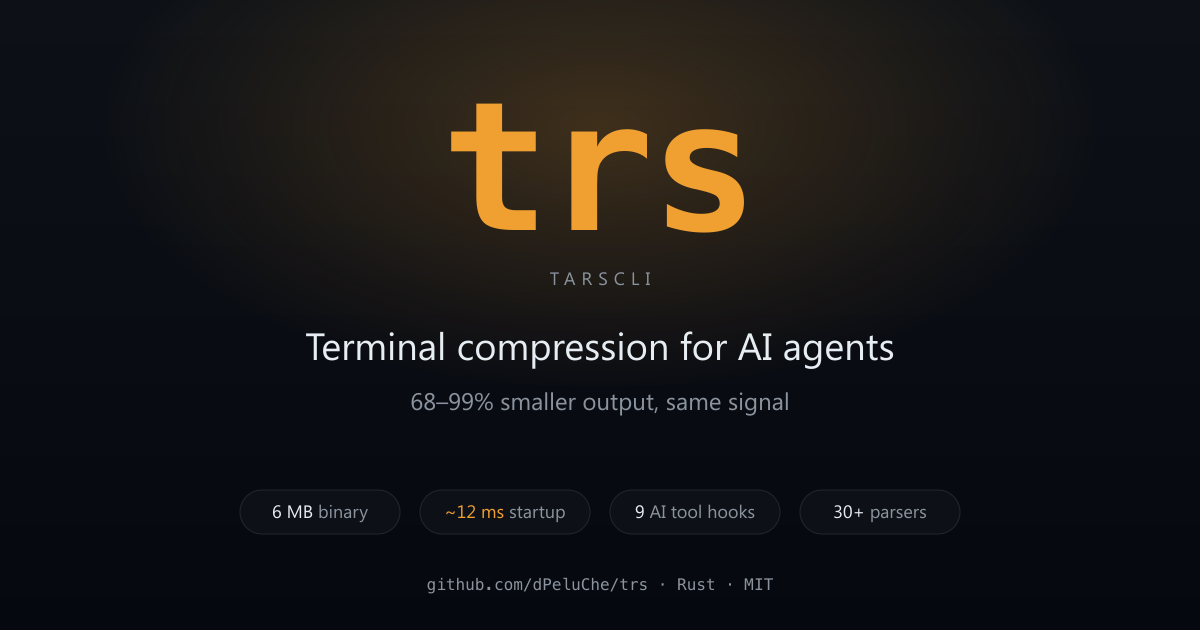
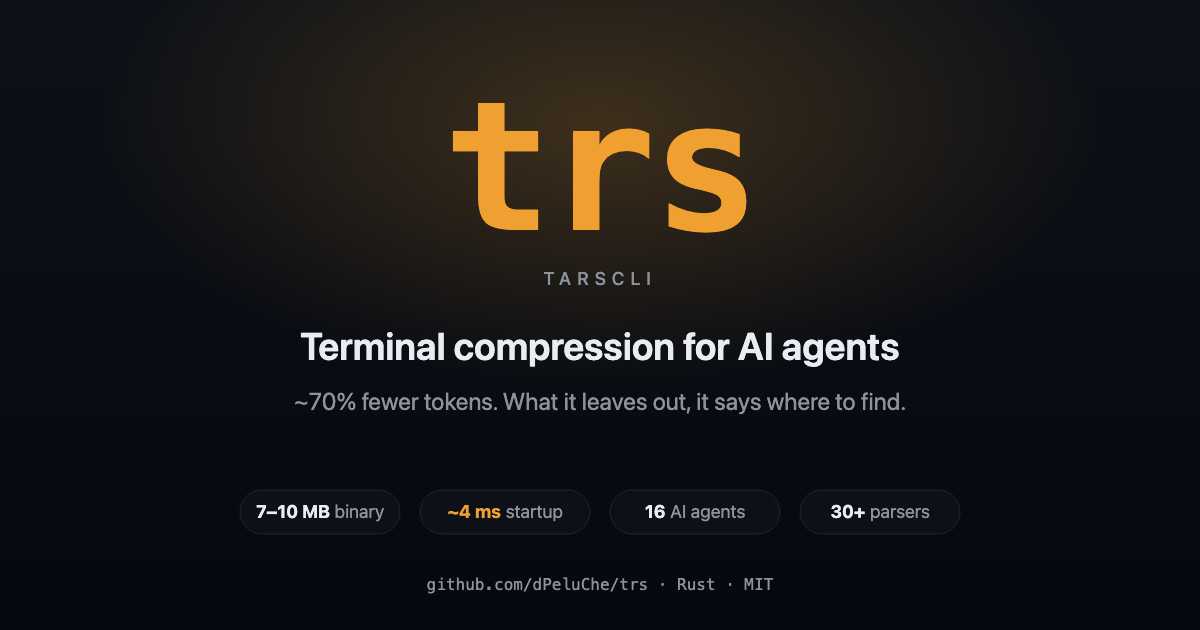
docs: replace the "68-99%" claim and the stale size and speed numbers (#187)
"68-99% reduction" contradicted the ~70% figure the README and site use,
and the per-command examples in `trs --help` (git status 80%) were not
what the benchmark measures (47%). The plugin and template text that
`trs init` writes into agents' config also said "no signal loss" and
"~30-40% free" for the generic path, which saves 2-16%.

- one phrase everywhere: ~70% fewer tokens on real agent commands, and
  what trs leaves out it says where to find
- binary size: published 0.8.6 binaries are 6.9 MB (macOS), 8.8 MB (Linux),
  10 MB (Windows), not 6 MB
- startup: the hook takes ~4 ms (median of 30), not ~12 ms
- og-image: 16 agents (`trs init --show` lists 16), regenerated PNG

Claude-Session: https://claude.ai/code/session_01GkgHj56hmkHb2a1syzJwA7

diff --git a/docs/index.html b/docs/index.html
@@ -20,7 +20,7 @@
   <meta property="og:type" content="website">
   <meta property="og:site_name" content="trs (Token-Reducing Shell)">
   <meta property="og:title" content="trs: Terminal compression for AI agents">
-  <meta property="og:description" content="Rust CLI that cuts ~70% of the tokens AI agents spend on terminal output. Single 6 MB binary, ~4 ms startup, zero Node overhead. Hooks for Claude Code, Gemini, Cursor, OpenCode, Kilo, Pi, Droid, Codex, VS Code Copilot, Copilot CLI, Devin CLI, OpenClaw, Hermes, Zed, Devin Desktop (ex-Windsurf), Antigravity (IDE + CLI / agy).">
+  <meta property="og:description" content="Rust CLI that cuts ~70% of the tokens AI agents spend on terminal output. Single 7-10 MB binary, ~4 ms startup, zero Node overhead. Hooks for Claude Code, Gemini, Cursor, OpenCode, Kilo, Pi, Droid, Codex, VS Code Copilot, Copilot CLI, Devin CLI, OpenClaw, Hermes, Zed, Devin Desktop (ex-Windsurf), Antigravity (IDE + CLI / agy).">
   <meta property="og:url" content="https://usetrs.dev/">
   <meta property="og:image" content="https://usetrs.dev/og-image.png">
   <meta property="og:image:alt" content="trs: Terminal compression for AI agents">
@@ -34,7 +34,7 @@
   <meta name="twitter:site" content="@dPeluChe">
   <meta name="twitter:creator" content="@dPeluChe">
   <meta name="twitter:title" content="trs: Terminal compression for AI agents">
-  <meta name="twitter:description" content="Rust CLI that cuts ~70% of the tokens AI agents spend on terminal output. Single 6 MB binary, ~4 ms startup.">
+  <meta name="twitter:description" content="Rust CLI that cuts ~70% of the tokens AI agents spend on terminal output. Single 7-10 MB binary, ~4 ms startup.">
   <meta name="twitter:image" content="https://usetrs.dev/og-image.png">
   <meta name="twitter:image:alt" content="trs: Terminal compression for AI agents">
 
@@ -718,7 +718,7 @@
     <a class="hero-secondary-link" href="#digest">&#x25CF; Also built-in: trs ingest &mdash; LLM-ready project digest &rarr;</a>
 
     <div class="hero-stats">
-      <span class="hero-stat"><strong>6 MB</strong> single binary</span>
+      <span class="hero-stat"><strong>7-10 MB</strong> single binary</span>
       <span class="hero-stat"><span class="accent">~4 ms</span> startup</span>
       <span class="hero-stat"><strong>9</strong> AI tool hooks</span>
       <span class="hero-stat"><strong>30+</strong> parsers</span>

diff --git a/src/init_templates.rs b/src/init_templates.rs
@@ -226,9 +226,10 @@ trs cargo clippy
 ```
 
 (Prefixing is always safe: trs never double-wraps a command that already
-starts with `trs`.) This reduces token consumption by 68-99% without losing
-signal. Commands without a dedicated parser still get ANSI stripping and
-whitespace collapse (~30-40% reduction "free").
+starts with `trs`.) This cuts the tokens spent on command output (about 70% on
+real agent commands). When trs leaves something out it says so and where the
+rest is. Commands without a dedicated parser still get ANSI stripping and
+whitespace collapse (a small cut, nothing dropped).
 
 The output-saver reply-brevity rules are installed separately as their own
 sentinel-managed block (run `trs output-saver --install`, which `trs init
@@ -277,8 +278,9 @@ trs cargo test
 trs cargo clippy
 ```
 
-68-99% token reduction with no signal loss. Commands without a dedicated
-parser still get ANSI stripping + whitespace collapse (~30-40% "free").
+About 70% fewer tokens on real agent commands; when trs leaves something out
+it says so and where the rest is. Commands without a dedicated parser still
+get ANSI stripping + whitespace collapse (a small cut, nothing dropped).
 
 See `docs/development/antigravity-hooks-research.md` in the trs repo
 for the investigation that led to this rules-only integration.

diff --git a/src/help.rs b/src/help.rs
@@ -7,14 +7,16 @@
 pub const LONG_ABOUT: &str = "\
 trs (Token-Reducing Shell) - Transform noisy terminal output into compact, structured signal
 
-Reduces token consumption by 68-99% for developers, AI agents, and automation.
+Cuts the tokens AI agents and automation spend on terminal output (about 70%
+on real agent commands; measured per command in docs/development/benchmarks).
+When it leaves something out it says so, and where the rest is.
 Just prefix any command with trs:
 
-    trs git status               # 80% reduction
-    trs git log -10              # 90% reduction
-    trs ls -la                   # 82% reduction
-    trs npm test                 # 90% reduction
-    trs env                      # 68% reduction
+    trs git status
+    trs git log -10
+    trs ls -la
+    trs npm test
+    trs env
 
 FORMAT FLAGS (work before or after the command):
     --json     Structured JSON output

diff --git a/docs/development/codebase-digest.md b/docs/development/codebase-digest.md
@@ -1,6 +1,6 @@
 # labs-tarscli (274 files, 42.2k tokens, rust)
 
-> Token-reducing shell for AI agents: compact terminal output at 68-99% reduction
+> Token-reducing shell for AI agents: compact terminal output, ~70% fewer tokens on real agent commands
 
 ## Structure
 
@@ -225,7 +225,7 @@ src/main.rs (3):
 ## What is trs
 
 A Rust CLI that transforms noisy terminal output into compact, structured signal.
-Reduces token consumption by 68-99% for developers, AI agents, and automation pipelines.
+Cuts the tokens AI agents and automation pipelines spend on terminal output (~70% on real agent commands).
 
 ## Pre-generated codebase digest
 
@@ -426,7 +426,7 @@ git config core.hooksPath .githooks
 name = "trs-cli"
 version = "0.7.5"
 edition = "2021"
-description = "Token-reducing shell for AI agents: compact terminal output at 68-99% reduction"
+description = "Token-reducing shell for AI agents: compact terminal output, ~70% fewer tokens on real agent commands"
 license = "MIT"
 repository = "https://github.com/dPeluChe/trs"
 homepage = "https://usetrs.dev"
@@ -1247,7 +1247,7 @@ install scope.
 Every command supported by trs falls into one of four levels.
 
 1. Dedicated parser. trs spawns the tool, parses its native output,
-   and emits a structured compact form. Typical reduction 68–99%.
+   and emits a structured compact form. Typical reduction depends on the command (see docs/development/benchmarks).
 2. Dispatched alias. A different binary with the same semantics
    (e.g. `rg` for `grep`, `eza` for `ls`) gets routed to the same
    parser. No configuration, the dispatcher recognizes the binary
@@ -1268,7 +1268,7 @@ Every command supported by trs falls into one of four levels.
 # Installing trs
 
 Five install channels. All of them ship the same native binary
-(~6 MB, zero runtime deps, ~12 ms startup). Pick whichever fits your
+(~7-10 MB, zero runtime deps, ~4 ms startup). Pick whichever fits your
 existing toolchain.
 
 ## Quick list
@@ -1397,7 +1397,7 @@ Do NOT do the switch before v0.5.10 ships — the hook would pin to the older in
 Transform noisy terminal output into compact, structured signal.
 A CLI toolkit for developers, automation pipelines, and AI agents.
 
-68-99% token savings on common dev operations.
+~70% fewer tokens on real agent commands.
 
 ## Install
 

diff --git a/npm/README.md b/npm/README.md
@@ -3,7 +3,7 @@
 Transform noisy terminal output into compact, structured signal.
 A CLI toolkit for developers, automation pipelines, and AI agents.
 
-**68-99% token savings** on common dev operations.
+**~70% fewer tokens on real agent commands.** What it leaves out, it says where to find.
 
 ## Install
 

diff --git a/docs/support/install.md b/docs/support/install.md
@@ -1,7 +1,7 @@
 # Installing trs
 
 Five install channels. All of them ship the same native binary
-(~6 MB, zero runtime deps, ~4 ms startup). Pick whichever fits your
+(~7-10 MB, zero runtime deps, ~4 ms startup). Pick whichever fits your
 existing toolchain.
 
 ## Quick list
